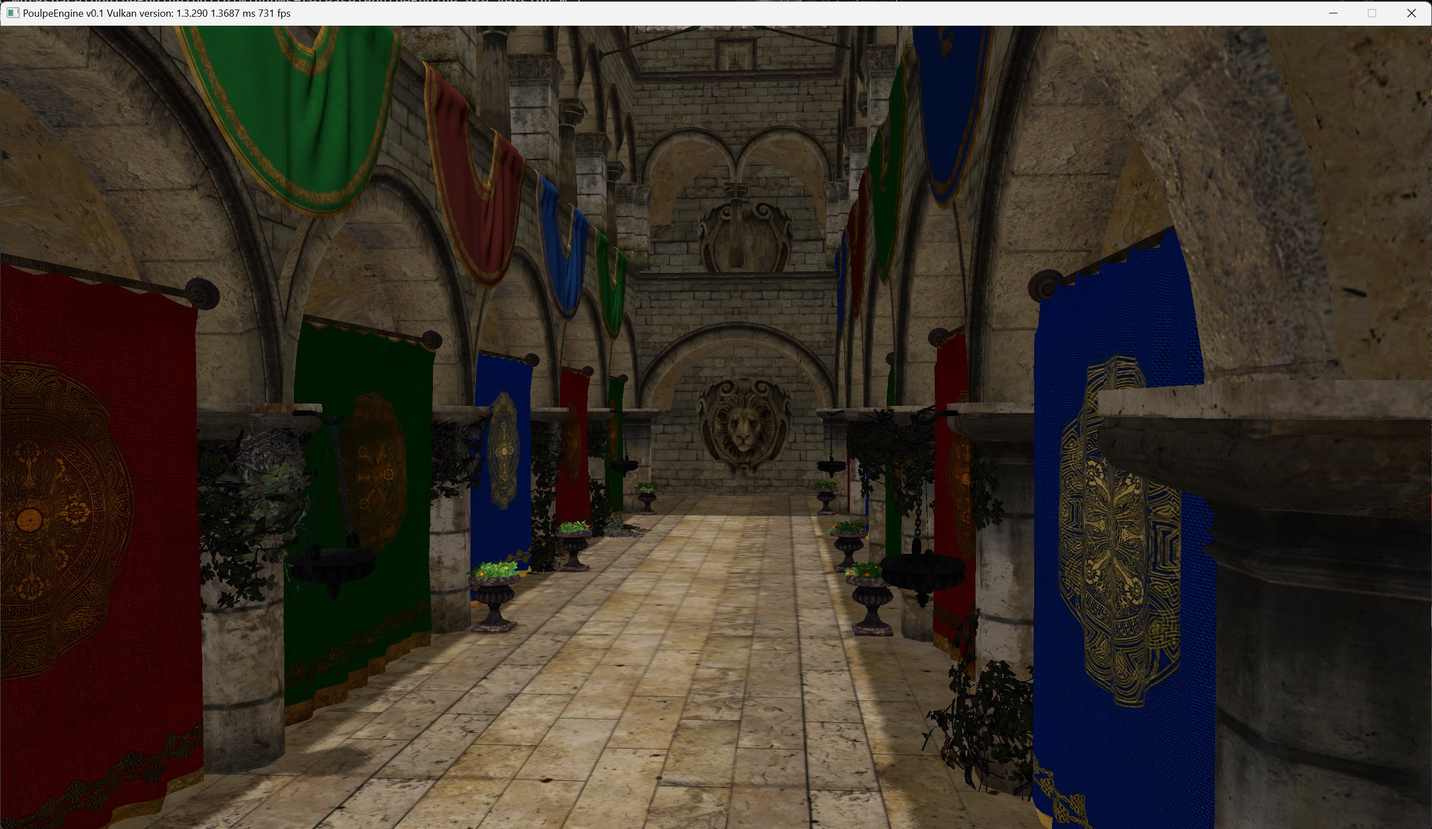
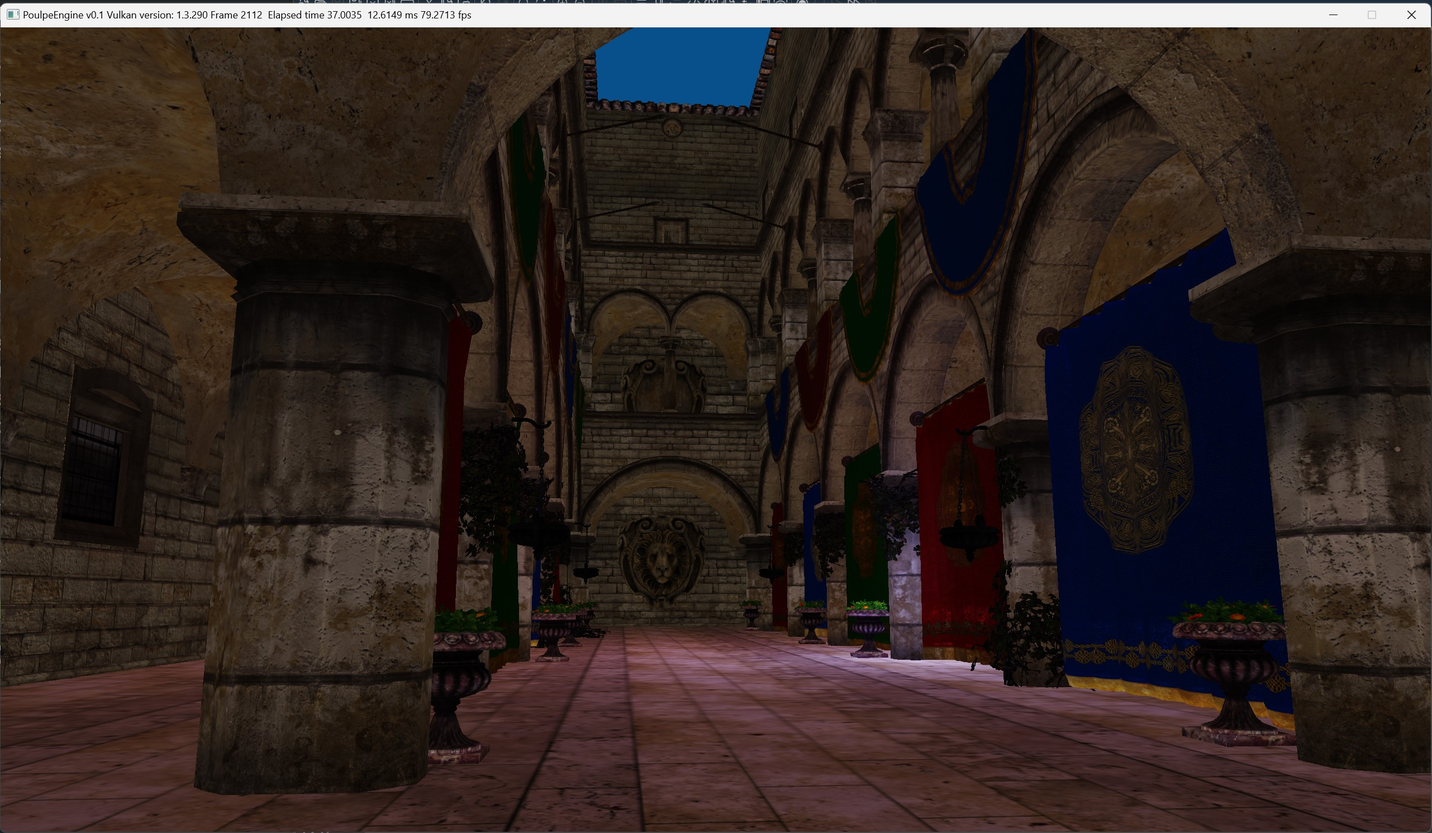
point light

diff --git a/src/Poulpe/Manager/LightManager.cpp b/src/Poulpe/Manager/LightManager.cpp
@@ -4,15 +4,15 @@ namespace Poulpe
 {
   LightManager::LightManager()
   {
-    _sun.color = glm::vec3(0.68f, 0.65f, 0.43f);
-    _sun.position = glm::vec3(0.5f, 15.0f, 0.6f);
+    _sun.color = glm::vec3(0.68f, 0.49f, 0.43f);
+    _sun.position = glm::vec3(0.5f, 10.0f, 1.6f);
     _sun.direction = glm::vec3(-0.1f, 5.0f, -0.1f);
     //ambient diffuse specular
-    _sun.ads = glm::vec3(0.3f, 0.5f, 1.f);
+    _sun.ads = glm::vec3(0.1f, 0.1f, 1.f);
     _sun.clq = glm::vec3(0.0f);
 
     _sun.view = glm::lookAt(
-      glm::vec3(-0.1f, 5.0f, -0.1f),
+      glm::vec3(-0.1f, 10.f, -0.1f),
       glm::vec3(0.0f, 0.0f, 0.0f),
       glm::vec3(0.0f, 1.0f, 0.0f));
 
@@ -29,22 +29,22 @@ namespace Poulpe
     _sun.light_space_matrix = _sun.projection * _sun.view;
 
     Light light;
-    light.color = glm::vec3(1.0);
-    light.position = glm::vec3(-1.5f, 2.0f, 0.0f);
+    light.color = glm::vec3(0.33f, 0.33f, 0.99f);
+    light.position = glm::vec3(1.5f, 1.0f, -3.0f);
     light.direction = glm::vec3(-0.1f, -1.0, 0.0);
-    light.ads = glm::vec3(0.0f, 0.0f, 0.0f);
-    light.clq = glm::vec3(1.0f, 0.25f, 0.44f);
+    light.ads = glm::vec3(10.0f, 30.0f, 40.0f);
+    light.clq = glm::vec3(1.0f, 0.7f, 1.8f);
 
     Light light2;
-    light2.color = glm::vec3(0.89f, 0.35f, 0.13f);
+    light2.color = glm::vec3(0.99f, 0.33f, 0.33f);
     //light2.position = glm::vec3(-1.2f, 0.1f, 0.4f);
-    light2.position = glm::vec3(0.f, 0.2f, 0.0f);
-    light2.direction = glm::vec3(0.f, 0.0, 0.0);
-    light2.ads = glm::vec3(0.2f, 0.2f, 0.4f);
-    light2.clq = glm::vec3(1.0f, 0.7f, 1.8f);
+    light2.position = glm::vec3(0.f, 2.5f, 0.0f);
+    light2.direction = glm::vec3(-0.1f, -1.0, 0.0);
+    light2.ads = glm::vec3(1.2f, 1.2f, 1.4f);
+    light2.clq = glm::vec3(1.0f, 0.09f, 0.032f);
 
-    _points.emplace_back(light);
     _points.emplace_back(light2);
+    _points.emplace_back(light);
 
     Light light3;
     light3.color = glm::vec3(0.13f, 0.35f, 0.89f);

diff --git a/src/Poulpe/Renderer/Vulkan/Renderer.cpp b/src/Poulpe/Renderer/Vulkan/Renderer.cpp
@@ -224,8 +224,8 @@ namespace Poulpe
     depth_attachment_info.clearValue.depthStencil = depth_stencil;
     depth_attachment_info.clearValue.color = color_clear;
 
-    uint32_t const width{ _vulkan->getSwapChainExtent().width * 8 };
-    uint32_t const height{ _vulkan->getSwapChainExtent().height * 8 };
+    uint32_t const width{ _vulkan->getSwapChainExtent().width * 2 };
+    uint32_t const height{ _vulkan->getSwapChainExtent().height * 2 };
     //uint32_t const width{ 2048 };
     //uint32_t const height{ 2048 };
 

diff --git a/src/Poulpe/Renderer/Vulkan/VulkanAPI.cpp b/src/Poulpe/Renderer/Vulkan/VulkanAPI.cpp
@@ -2099,8 +2099,8 @@ namespace Poulpe {
 
   void VulkanAPI::createDepthMapImage(VkImage& image)
   {
-    uint32_t const width{ getSwapChainExtent().width * 8 };
-    uint32_t const height{ getSwapChainExtent().height * 8 };
+    uint32_t const width{ getSwapChainExtent().width * 2 };
+    uint32_t const height{ getSwapChainExtent().height * 2 };
 
     VkImageCreateInfo image_info{};
     image_info.sType = VK_STRUCTURE_TYPE_IMAGE_CREATE_INFO;

diff --git a/src/Poulpe/Component/Camera.hpp b/src/Poulpe/Component/Camera.hpp
@@ -40,8 +40,8 @@ namespace Poulpe
     glm::mat4 _view;
 
     float _pitch;
-    unsigned int const _pixel_distance{ 3 };
-    float _speed { 3.0f };
+    unsigned int const _pixel_distance{ 10 };
+    float _speed { _pixel_distance };
     float _yaw{ -90.0f };
   };
 }
